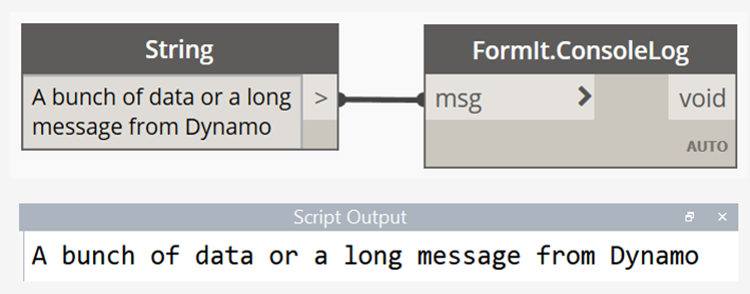
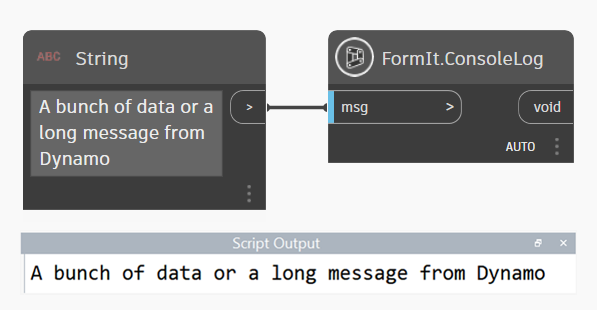
GitBook: [#68] Dynamo image updates

diff --git a/formit-capabilities/formit-+-dynamo.md b/formit-capabilities/formit-+-dynamo.md
@@ -10,9 +10,9 @@ FormIt for Windows has Dynamo built-in for incredible computational design workf
 
 ## What's New With FormIt + Dynamo
 
-### **Dynamo Visual Refresh, Data Graphs, and FormItGroupOptions Improvement**
+### **Data Graphs, Send Levels to Excel, and Faceting Control**
 
-FormIt 2023 adds Dynamo 2.13, featuring a modernized dark gray theme and a host of other improvements, the ability to run Dynamo graphs without a SendToFormIt node (known as data graphs), the ability to set curve and surface faceting counts via FormItGroupOptions, and more.
+[FormIt 2023](https://formit.autodesk.com/blog/post/introducing-formit-2023/) enables running Dynamo graphs[ without a SendToFormIt node](formit-+-dynamo.md#graph-types), adds the ability to [send FormIt levels to Excel](formit-+-dynamo.md#send-formit-levels-to-excel), and adds control of [curve and surface faceting via new FormItGroupOptions nodes](../tool-library/curve-+-surface-faceting.md).
 
 ### **Dimension Inputs and Early JS API Access**
 
@@ -61,13 +61,13 @@ Author and edit graphs in Dynamo, or flex parameters in FormIt without ever seei
 
 FormIt supports three types of Dynamo graphs:
 
-* Data graph: Data graphs have no _SendToFormIt_ nodes and are used to surface or pass data through FormIt. For example, you can use data graphs to send data to Excel, produce text, pull information about levels, etc.
-* Geometry graph: These graphs produce geometry immediately and must be placed into the canvas to see their parameters. After clicking the thumbnail, the geometry will appear on the cursor for placement into the 3D scene. This graph requires at least one _SendToFormIt_ node to be present and receiving geometry at the end of the graph.
-* Selection graph: These graphs require FormIt selections before running. You'll see a prompt in the upper-left corner to indicate what needs to be selected. After clicking the check icon, the graph will run and generate geometry relative to the selected geometry. This graph requires at least one _SendToFormIt_ node to be present and receiving geometry at the end of the graph.
+* Data graph: Data graphs have no _SendToFormIt_ nodes and are used to surface or pass data through FormIt. For example, you can use data graphs to send data to Excel or calculate non-geometric data and display it in a Watch Node.
+* Geometry graph: These graphs produce geometry immediately and need to be placed into the canvas to see their parameters. After clicking the thumbnail, the geometry will appear on the cursor for placement into the 3D scene. This graph requires at least one _SendToFormIt_ node to be present and receiving geometry at the end of the graph.
+* Selection graph: These graphs require FormIt selections before running. You'll see a prompt in the upper-left corner of FormIt to indicate what needs to be selected. After providing the selection, the graph will run and generate geometry relative to the selection. This graph requires at least one _SendToFormIt_ node to be present and receiving geometry at the end of the graph.
 
 ![](../.gitbook/assets/dynamo-graph-types.png)
 
-### **Send Dynamo Geometry to FormIt**
+### **Geometry Graph: Place Dynamo Group into FormIt**
 
 ![](../.gitbook/assets/dynamo\_stairsgif.gif)
 
@@ -80,7 +80,7 @@ FormIt supports three types of Dynamo graphs:
 * A copy of the original Dynamo file is now embedded into the FormIt Group and is independent of the source graph.
 * Upon placement, the Properties panel will automatically toggle to reveal the available parameters.
 
-### **Modify Parameters**
+### **Geometry Graph: Modify Parameters**
 
 ![](../.gitbook/assets/dynamo\_stairsgif2\_modifyparameters.gif)
 
@@ -94,7 +94,7 @@ FormIt supports three types of Dynamo graphs:
   * You can continue using FormIt while Dynamo is running.&#x20;
 * Note that all geometry inside each SendToFormIt Group will be deleted and replaced when the Dynamo graph runs.
 
-### Send FormIt Levels to Excel
+### Data Graph: Send FormIt Levels to Excel
 
 In FormIt 2023 and newer, you can use Dynamo to send FormIt levels to Excel:&#x20;
 
@@ -171,8 +171,8 @@ Source Graphs are displayed in the Dynamo panel after [linking local directories
 
 ![](../.gitbook/assets/dynamo-formitgroupoptions-faceting.gif)
 
-* Starting with FormIt v18.0, the quality of curves and surfaces imported from Dynamo is now customizable.
-* After adjusting the faceting quality in Edit -> Preferences, you can now click "Run Graph" in the Properties panel without making any parameter changes, to re-generate the Dynamo geometry with the new faceting settings.
+* You can also globally set faceting settings in Edit -> Preferences -> Units + Precision
+* After adjusting the faceting quality in Preferences, rerun the graph to use the new global faceting settings.
 
 ![](../.gitbook/assets/dynamo\_controlcurve.gif)
 
@@ -397,7 +397,7 @@ FormIt 2022.1 and newer offers access to JavaScript APIs and custom functions fr
 
 The **CallJSAPI** node allows you to invoke FormIt JavaScript APIs directly from Dynamo.
 
-![](../.gitbook/assets/dynamo\_calljsapi.png)
+![](<../.gitbook/assets/dynamo\_calljsapi (1).png>)
 
 For function names and parameters, take a look at our JavaScript documentation, which is divided into two parts: [FormIt API](https://formit3d.github.io/FormItExamplePlugins/docs/FormItJSAPI/group\_\_mod\_\_jsapi\_\_formit.html) and [WSM API](https://formit3d.github.io/FormItExamplePlugins/docs/FormItJSAPI/group\_\_mod\_\_jsapi\_\_wsm.html) (modeling kernel).
 
